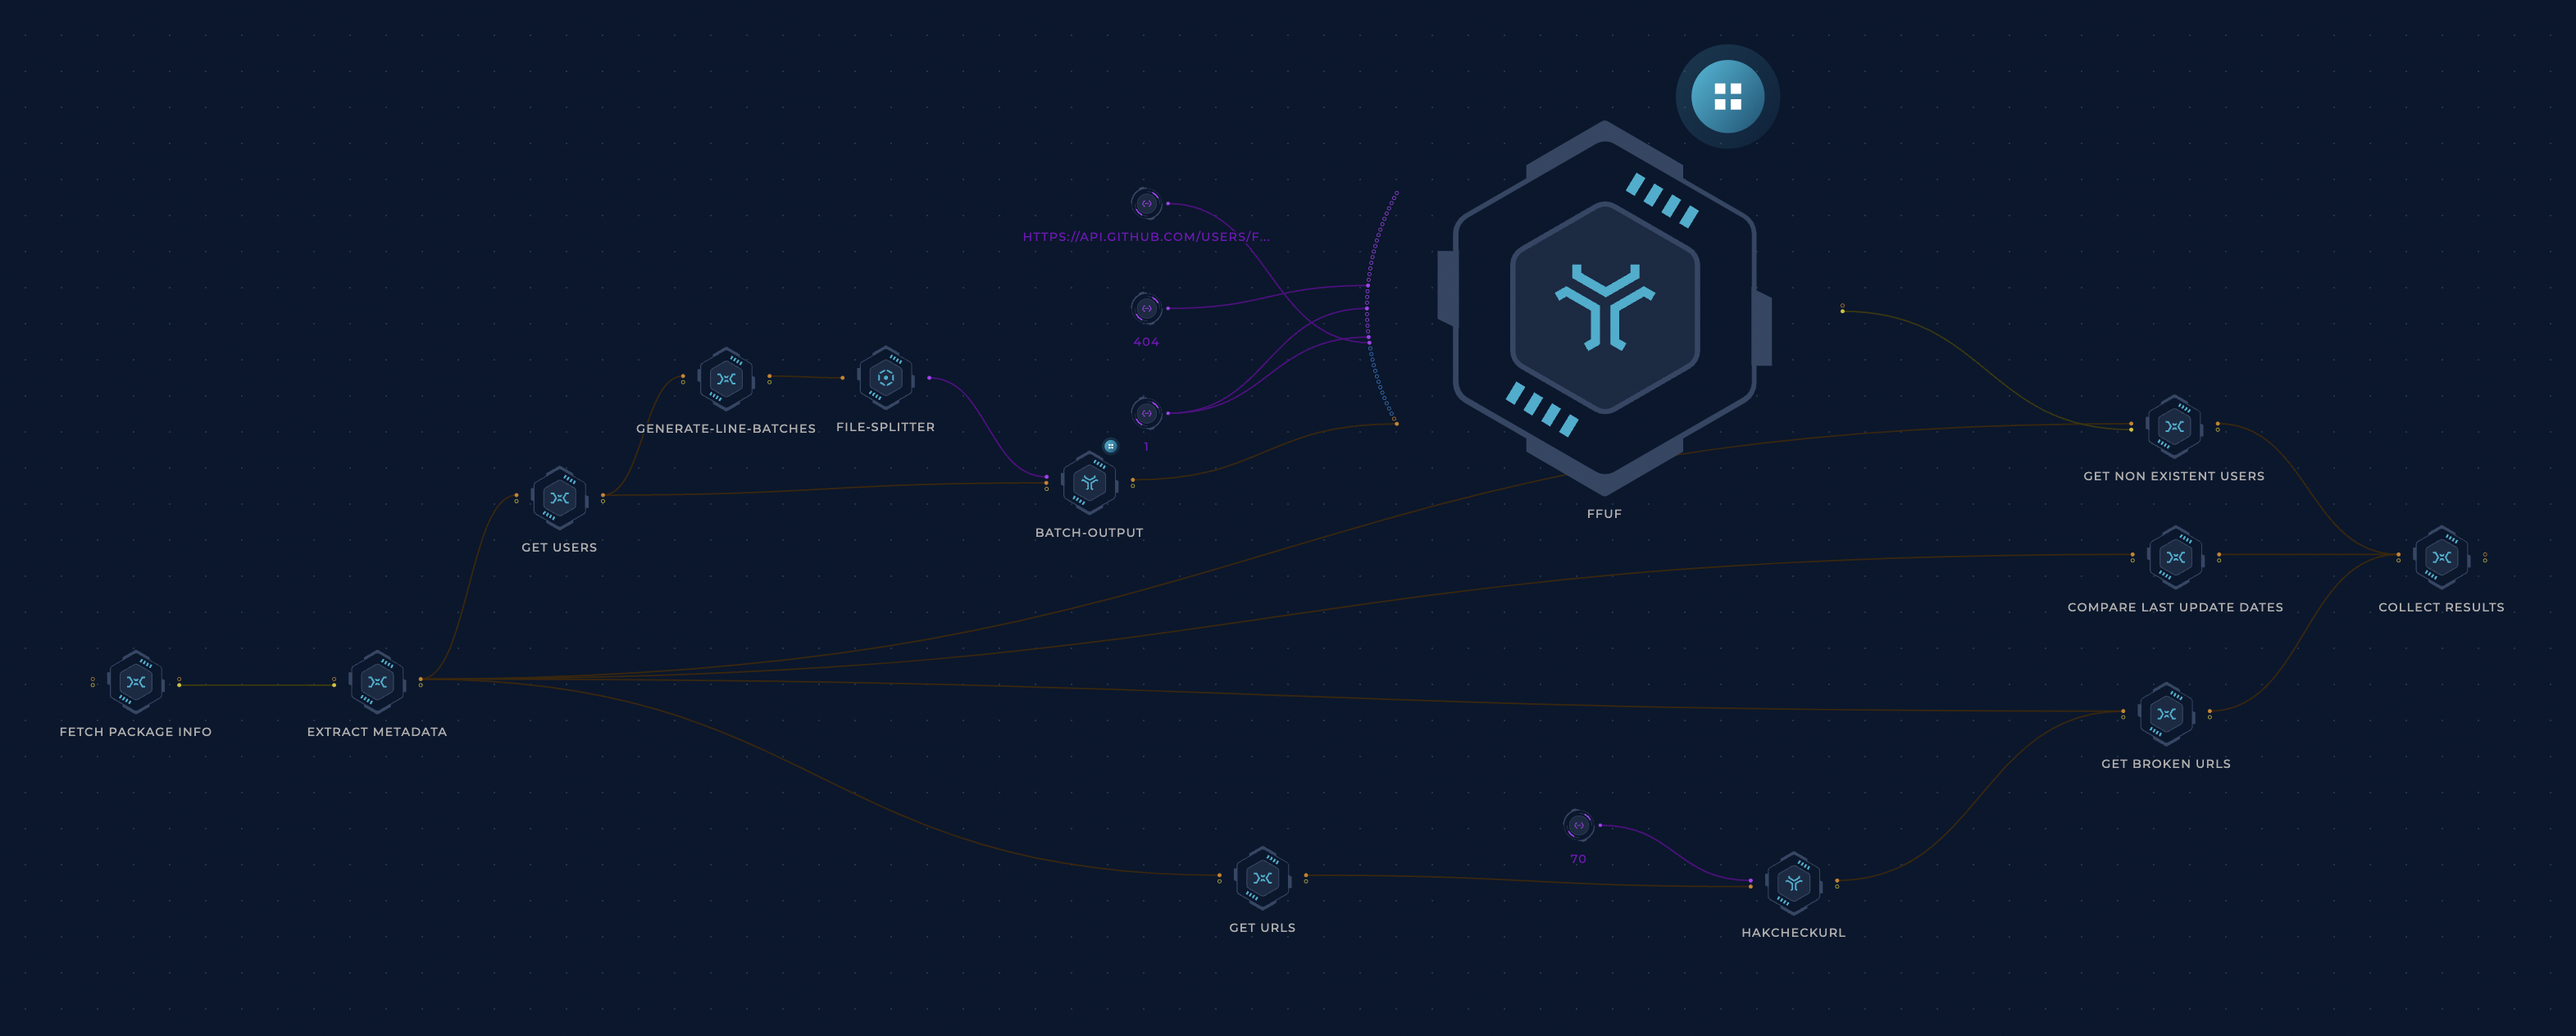
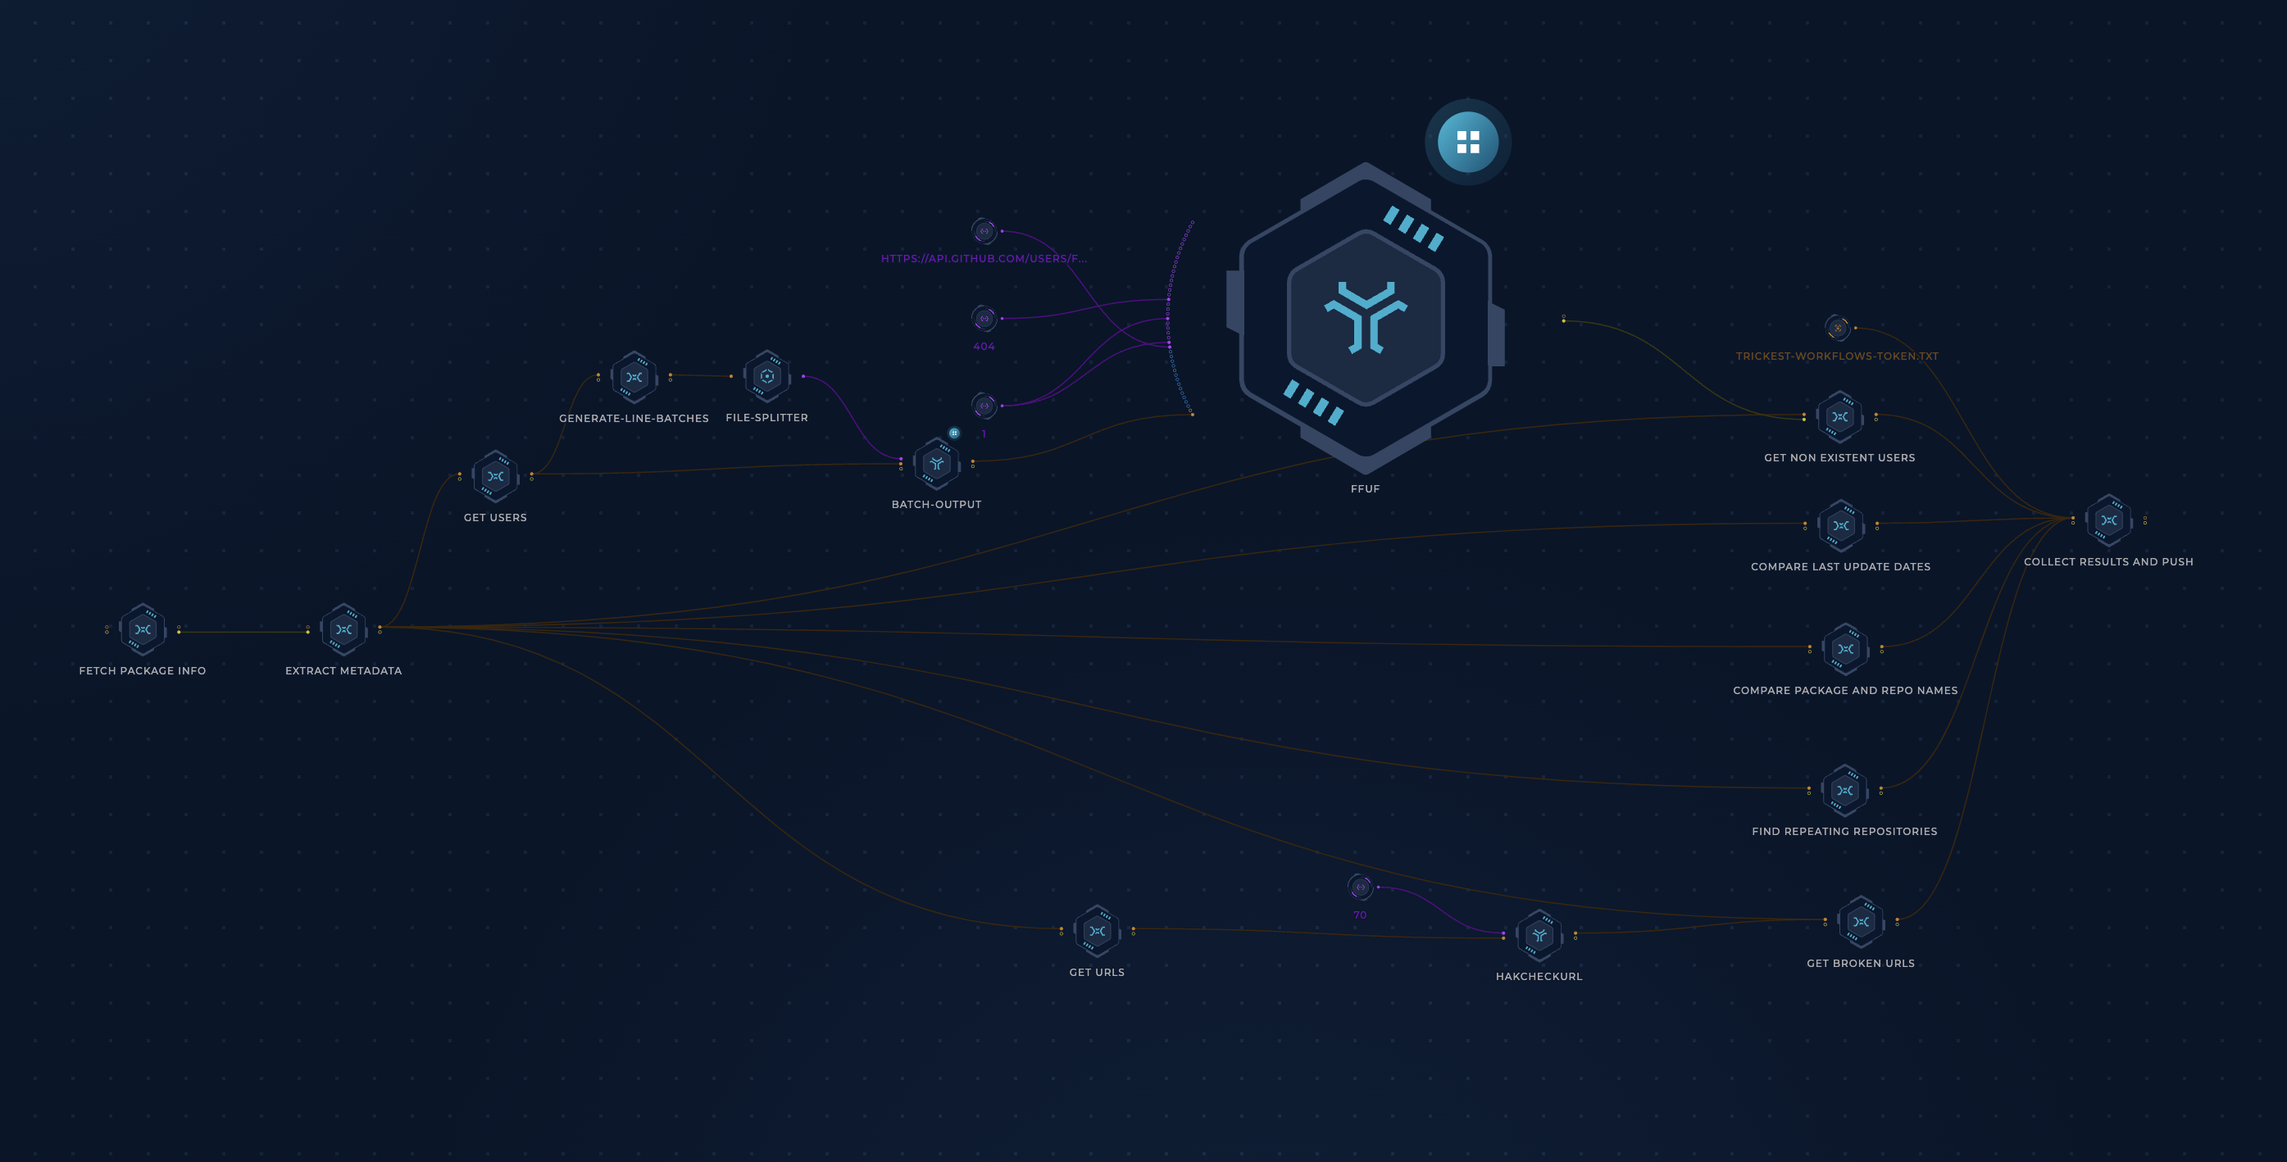
Update README.md with new checks

diff --git a/README.md b/README.md
@@ -1,10 +1,12 @@
 <h1 align="center">Packages <a href="https://twitter.com/intent/tweet?text=Trickest%20Packages%20-%20Automated%20compromise%20detection%20of%20the%20world's%20most%20popular%20packages%20%40trick3st%0A%0Ahttps%3A%2F%2Fgithub.com%2Ftrickest%2Fpackages&hashtags=bugbounty,bugbountytips,infosec"><img src="https://img.shields.io/badge/Tweet--lightgrey?logo=twitter&style=social" alt="Tweet" height="20"/></a></h1>
 <h3 align="center">Automated compromise detection of the world's most popular packages</h3>
 
-For each package registry, 3 files are generated:
+For each package registry, 5 files are generated:
 - `non_existent_users.csv`: Packages that point to a GitHub repository whose owner doesn't exist anymore: [PyPI](pypi/non_existent_users.csv), [npm](npm/non_existent_users.csv)
 - `suspicious_updates.csv`: Packages that have been updated on the package repository without a corresponding update to the code repository's default branch: [PyPI](pypi/suspicious_updates.csv), [npm](npm/suspicious_updates.csv)
 - `broken_urls.csv`: Packages that have a broken URL anywhere in their description, homepage, docs URL, bugtrack URL, etc: [PyPI](pypi/broken_urls.csv), [npm](npm/broken_urls.csv)
+- `mismatching_package_repository.csv`: Packages that point to a GitHub repository whose name doesn't match the package name (This isn't always indicative of a compromised package but it helps catch malicious packages that try to impersonate legitimate ones): [PyPI](pypi/mismatching_package_repository.csv), [npm](npm/mismatching_package_repository.csv)
+- `repeating_repositories.csv`: Packages that point to a GitHub repository that another package also points to (This isn't always indicative of a compromised package but it helps catch malicious packages that try to impersonate legitimate ones): [PyPI](pypi/repeating_repositories.csv), [npm](npm/repeating_repositories.csv)
 
 [<img src="./banner.png" />](https://trickest-access.paperform.co/)
 
@@ -29,11 +31,14 @@ Then, it performs multiple checks to find any red flags that could indicate that
     - The GitHub repository connected to the package
     - The repository's latest commit date
     - The URLs that the package points to anywhere
-- This node branches off into 3 checks:
+- This node branches off into 5 checks:
     - The package's latest release date and repository's latest commit date are compared. If a package version has been released _after_ the latest commit date, the package is flagged.
         - Example: The `ctx` package (now deleted) had its [last commit in 2014](https://github.com/figlief/ctx/commits/master) but a [new version was released in 2022](https://web.archive.org/web/20220519184823/https://pypi.org/project/ctx/#history) which [turned out to be malicious](https://www.reddit.com/r/Python/comments/uwhzkj/i_think_the_ctx_package_on_pypi_has_been_hacked/).
     - GitHub usernames are extracted from the repository URLs and passed to [ffuf](https://github.com/ffuf/ffuf) which queries the GitHub API to check if any usernames don't exist anymore (Thanks [@joohoi](https://github.com/joohoi)!)
     - The package's URLs are passed to [hakcheckurl](https://github.com/hakluke/hakcheckurl) to check if any URLs are broken and could be taken over. (Thanks [@hakluke](https://github.com/hakluke))
+    - The package's GitHub repository is checked and the package is flagged if:
+        - the repository name doesn't match the package name
+        - the repository has been used in another package before
 - In the end, the results of these checks are matched back to their packages and pushed to this repository.
 - The workflow is scheduled to run constantly.
 
